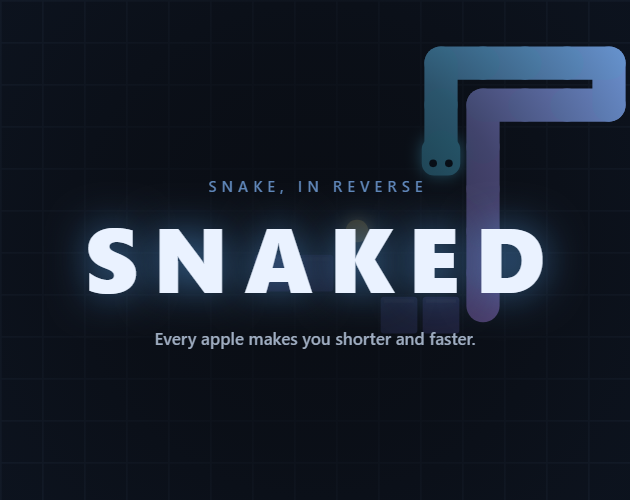
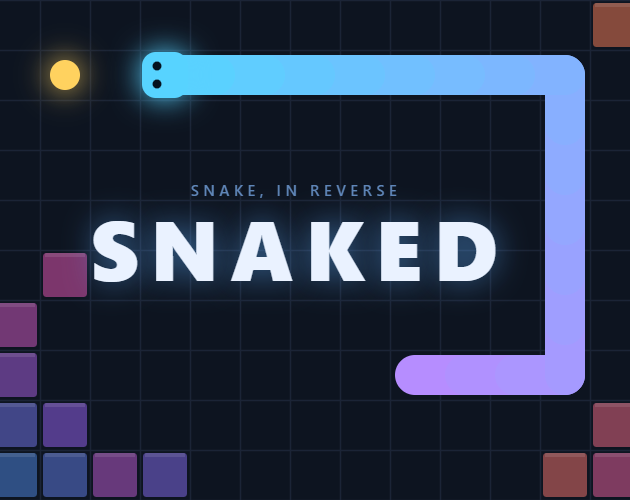
Launch kit: new itch cover in Breakin's layout

diff --git a/press/launch-copy.md b/press/launch-copy.md
@@ -8,7 +8,7 @@ Assets in this folder:
 |---|---|
 | `snaked-itch.zip` | The game for itch's upload box: index.html, manifest, sw.js, icons, og.png, favicon (rebuilt 19 Sep from commit 316c8b8: name boxes never pre-filled, Esc-only pause, d-pad below the board, race with Breakin's screens, You win/You lost, 30s two-player rematch vote, leaving ends the match, 5s countdown before leaving a finished match, both boards on the race result, race runs until both are out, times on the race result, rival apples left + time in the race HUD). If index.html changes before posting, rebuild it: `git -C <snaked folder> archive --format=zip -o press/snaked-itch.zip HEAD index.html manifest.json sw.js favicon.svg icon-192.png icon-512.png og.png`. |
 | `snaked-run.gif` | 27s loop, 324x568, 1.6 MB. One full winning run by the demo bot at real speed: 30 pieces down to 1, the board filling with stone, the speed-up at the end, then a title card. Lead with this, the speed-up is invisible in a still. |
-| `itch-cover.png` | 630x500 itch cover: SNAKED over a real mid-run board. |
+| `itch-cover.png` | 630x500 itch cover in Breakin's layout (19 Sep): SNAKED on the grid, the snake framing it top and right, apple and stone in the corners. |
 | `shot-0-menu.png` | Menu at phone width (2x), re-shot 16 Sep. |
 | `shot-1-long-and-slow.png` | 3s in: full length, almost no stone. |
 | `shot-2-halfway.png` | Length 14, stone spreading. |
